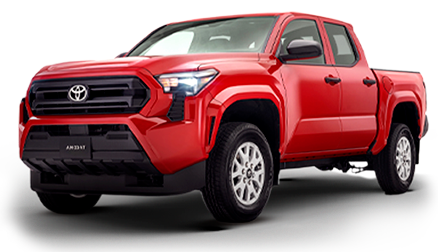
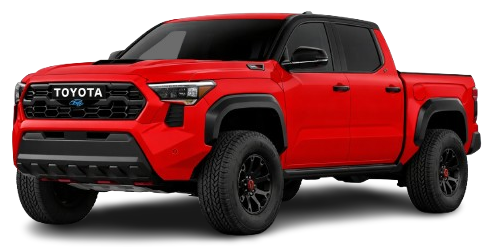
cambios imagenes

diff --git a/public/css/navbarUsuarios.css b/public/css/navbarUsuarios.css
@@ -356,7 +356,7 @@ body.nav-open .topbar{
     margin-bottom: 26px;
   }
   .hero-icons .icon-item i{ font-size: clamp(34px, 10vw, 44px); }
-  .hero-icons .icon-item span{ font-size:12.5px; line-height:1.25; }
+  .hero-icons .icon-item span{ font-size:18px; line-height:1.25; }
 }
 @media (max-width:360px){
   .hero-icons{ grid-template-columns:1fr; }

diff --git a/resources/views/welcome.blade.php b/resources/views/welcome.blade.php
@@ -639,24 +639,24 @@
 
         <article class="car-card">
           <header class="car-title">
-            <h3>SUV COMPACTA</h3>
-            <p> Jeep Renegade o similar | IC</p>
+            <h3>PICKUP 4X4 DOBLE CABINA</h3>
+            <p>Toyota Tacoma o similar | F</p>
           </header>
           <div class="car-media">
-            <img src="{{ asset('img/renegade.png') }}" alt=" Jeep Renegade o similar">
+            <img src="{{ asset('img/tacoma.png') }}" alt="Toyota Tacoma o similar">
           </div>
 
           <div class="offer">
-            <span class="offer-badge">-24%</span>
+            <span class="offer-badge">-13%</span>
             <div class="price-line">
-              <span class="price-now">$1,600</span><span class="per">/día</span>
-              <span class="price-old">$2,100</span>
+              <span class="price-now">$2,600</span><span class="per">/día</span>
+              <span class="price-old">$3,000</span>
             </div>
           </div>
 
           <ul class="car-specs">
             <li><i class="fa-solid fa-user-large"></i> 5</li>
-            <li><i class="fa-solid fa-suitcase-rolling"></i> 2</li>
+            <li><i class="fa-solid fa-suitcase-rolling"></i> 3</li>
             <li><i class="fa-solid fa-briefcase"></i> 3</li>
           </ul>
 
@@ -673,6 +673,7 @@
 
           <a href="{{ route('rutaReservaciones') }}" class="car-cta">Reservar</a>
         </article>
+
 
         <article class="car-card">
           <header class="car-title">
